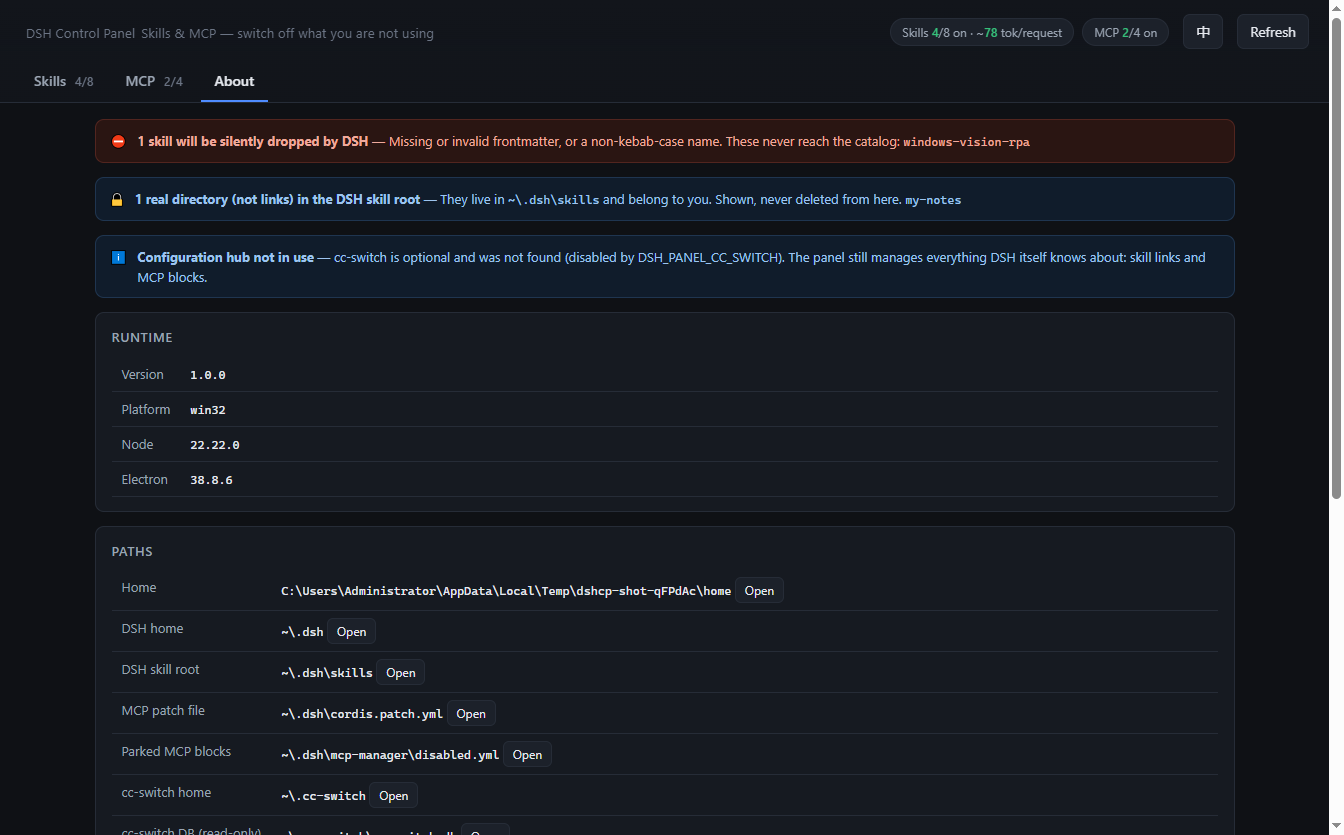
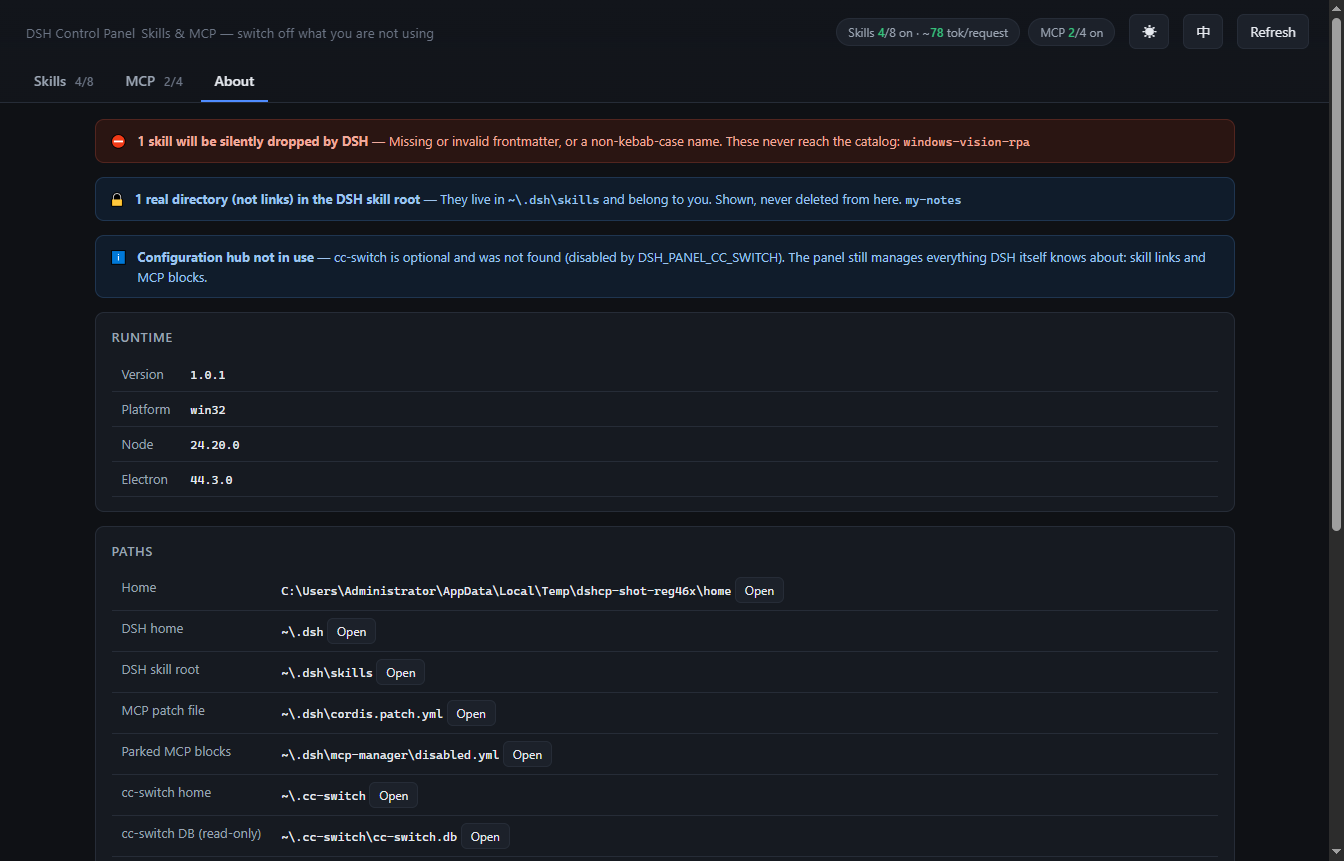
feat: light/dark themes, and stop the smoke test from lying
Themes. Every surface colour was a hardcoded dark value scattered through ~25
rules, so a light theme bolted on top would have left dark islands. They are now
tokens defined once per palette, which is what makes the toggle actually switch
the whole UI. The theme follows the OS until the user picks one, the choice
persists, and a tiny inline script sets it before first paint so a light-theme
user never sees a dark flash on launch.

Menu bar. Now hidden: it is developer chrome, every entry already has an
accelerator or a button in the page, and Alt still reveals it so DevTools and
zoom stay reachable. Verified by asserting win.isMenuBarVisible() from the smoke
run, since capturePage cannot see window chrome.

The more important fix is that the smoke test could report success while the app
was visibly broken, with a blank page and exit 0. Two independent causes:

  - Renderer errors were ignored. console-message and render-process-gone are
    now collected and any error-level entry fails the run and prints the error.
    This immediately caught a ReferenceError I had just introduced: the theme
    toggle was painted from a module-level call placed before const $, so the
    whole page script threw in its temporal dead zone. That is exactly the bug
    class the assertion is for, and it is fixed.
  - The single-instance lock. Smoke and screenshot runs now take their own
    --user-data-dir, because a run started while the app was already open became
[…]

diff --git a/public/index.html b/public/index.html
@@ -6,8 +6,35 @@
 <meta http-equiv="Content-Security-Policy"
       content="default-src 'none'; style-src 'unsafe-inline'; script-src 'unsafe-inline'; connect-src 'self'; img-src 'self' data:" />
 <title>DSH Control Panel</title>
+<script>
+  /*
+   * Runs before first paint, so a light-theme user never sees a dark flash on
+   * launch. Deliberately tiny and dependency-free; the real theme logic lives at
+   * the bottom of the file and simply re-applies the same decision.
+   */
+  (function () {
+    var t;
+    try {
+      var q = new URLSearchParams(location.search).get('theme');
+      t = (q === 'light' || q === 'dark') ? q : localStorage.getItem('dshcp.theme');
+      if (t !== 'light' && t !== 'dark') {
+        t = matchMedia('(prefers-color-scheme: light)').matches ? 'light' : 'dark';
+      }
+    } catch (e) {
+      t = 'dark';
+    }
+    document.documentElement.dataset.theme = t;
+  })();
+</script>
 <style>
-  :root {
+  /*
+   * Every surface colour is a token, and both palettes define the same tokens.
+   * That is deliberate: the original stylesheet had ~25 hardcoded dark values
+   * scattered through the rules, and a light theme bolted on top of those leaves
+   * dark islands. Overriding one block of variables cannot.
+   */
+  :root, :root[data-theme="dark"] {
+    color-scheme: dark;
     --bg: #0f1115;
     --panel: #161a21;
     --panel-2: #1c212a;
@@ -16,11 +43,58 @@
     --fg-dim: #9aa4b2;
     --fg-faint: #6b7484;
     --accent: #4f8cff;
+    --accent-hover: #3d7ae8;
     --on: #35c07a;
     --off: #55607a;
     --warn: #e0a33c;
     --err: #e5604d;
+    --knob: #ffffff;
+    --shadow: 0 8px 28px rgba(0, 0, 0, .5);
+    --header-top: #12151b;
+    --header-bottom: rgba(18, 21, 27, .93);
+    --btn-hover: #232936;
+    --btn-hover-line: #39414f;
+    --bnr-warn-bg: #241d0e; --bnr-warn-line: #4a3a1a; --bnr-warn-fg: #f0d49a;
+    --bnr-info-bg: #101c2b; --bnr-info-line: #1f3550; --bnr-info-fg: #9dc4f0;
+    --bnr-err-bg: #2a1512;  --bnr-err-line: #52251f;  --bnr-err-fg:  #f0a99c;
+    --row-on-bg: #141d19;    --row-on-line: #24503a;
+    --row-bad-line: #4a2620; --row-unmanaged-line: #3a3320;
+    --tag-bg: #202633; --tag-fg: #6b7484; --tag-line: #2b323f;
+    --tag-bad-bg: #2c1714; --tag-bad-fg: #eb8b7b; --tag-bad-line: #4a2620;
+    --tag-warn-bg: #2a2211; --tag-warn-fg: #dfb263; --tag-warn-line: #4a3a1a;
+    --tag-good-bg: #12271d; --tag-good-fg: #6fd39c; --tag-good-line: #24503a;
     --mono: ui-monospace, "Cascadia Code", "SF Mono", Consolas, monospace;
+  }
+  :root[data-theme="light"] {
+    color-scheme: light;
+    --bg: #f4f6f9;
+    --panel: #ffffff;
+    --panel-2: #eceff4;
+    --line: #d8dee7;
+    --fg: #12161d;
+    --fg-dim: #4b5563;
+    --fg-faint: #6b7684;
+    --accent: #2b6fdb;
+    --accent-hover: #1f5cc4;
+    --on: #12875a;
+    --off: #b3bcc9;
+    --warn: #8a5d0b;
+    --err: #b83c2c;
+    --knob: #ffffff;
+    --shadow: 0 8px 28px rgba(15, 23, 42, .16);
+    --header-top: #ffffff;
+    --header-bottom: rgba(255, 255, 255, .88);
+    --btn-hover: #e0e6ef;
+    --btn-hover-line: #c6cfdd;
+    --bnr-warn-bg: #fdf3dc; --bnr-warn-line: #ecd9a8; --bnr-warn-fg: #6b4a06;
+    --bnr-info-bg: #e7f0fd; --bnr-info-line: #c3d9f5; --bnr-info-fg: #17457f;
+    --bnr-err-bg: #fdeae7;  --bnr-err-line: #f3c6bf;  --bnr-err-fg:  #8f2c1e;
+    --row-on-bg: #eefaf2;    --row-on-line: #a8d8bd;
+    --row-bad-line: #f0c0b7; --row-unmanaged-line: #e6d3a8;
+    --tag-bg: #eef1f6; --tag-fg: #5a6575; --tag-line: #dbe1ea;
+    --tag-bad-bg: #fbe9e6; --tag-bad-fg: #a3352a; --tag-bad-line: #f0c6be;
+    --tag-warn-bg: #fbf1dc; --tag-warn-fg: #7a5406; --tag-warn-line: #ecd9a8;
+    --tag-good-bg: #e6f6ec; --tag-good-fg: #0e6b41; --tag-good-line: #b6dfc6;
   }
   * { box-sizing: border-box; }
   body {
@@ -30,7 +104,7 @@
   a { color: var(--accent); }
   header {
     position: sticky; top: 0; z-index: 10;
-    background: linear-gradient(180deg, #12151b 0%, #12151bee 100%);
+    background: linear-gradient(180deg, var(--header-top) 0%, var(--header-bottom) 100%);
     border-bottom: 1px solid var(--line);
     padding: 14px 20px 0;
     backdrop-filter: blur(8px);
@@ -50,10 +124,10 @@
     border: 1px solid var(--line); border-radius: 7px; padding: 6px 12px;
     cursor: pointer; transition: background .12s, border-color .12s;
   }
-  button:hover:not(:disabled) { background: #232936; border-color: #39414f; }
+  button:hover:not(:disabled) { background: var(--btn-hover); border-color: var(--btn-hover-line); }
   button:disabled { opacity: .4; cursor: not-allowed; }
   button.primary { background: var(--accent); border-color: var(--accent); color: #fff; }
-  button.primary:hover:not(:disabled) { background: #3d7ae8; }
+  button.primary:hover:not(:disabled) { background: var(--accent-hover); }
   button.mini { padding: 3px 9px; font-size: 12px; border-radius: 6px; }
   .tabs { display: flex; gap: 4px; margin-top: 12px; }
   .tab {
@@ -67,11 +141,11 @@
 
   .banner {
     display: flex; gap: 10px; align-items: flex-start;
-    border: 1px solid #4a3a1a; background: #241d0e; color: #f0d49a;
+    border: 1px solid var(--bnr-warn-line); background: var(--bnr-warn-bg); color: var(--bnr-warn-fg);
     border-radius: 9px; padding: 11px 14px; margin-bottom: 14px; font-size: 13px;
   }
-  .banner.info { border-color: #1f3550; background: #101c2b; color: #9dc4f0; }
-  .banner.err { border-color: #52251f; background: #2a1512; color: #f0a99c; }
+  .banner.info { border-color: var(--bnr-info-line); background: var(--bnr-info-bg); color: var(--bnr-info-fg); }
+  .banner.err { border-color: var(--bnr-err-line); background: var(--bnr-err-bg); color: var(--bnr-err-fg); }
   .banner code { font-family: var(--mono); font-size: 12px; }
 
   .toolbar { display: flex; gap: 8px; align-items: center; margin-bottom: 12px; flex-wrap: wrap; }
@@ -88,9 +162,9 @@
     background: var(--panel); border: 1px solid var(--line);
     border-radius: 9px; padding: 11px 13px;
   }
-  .row.is-on { border-color: #24503a; background: #141d19; }
-  .row.is-bad { border-color: #4a2620; }
-  .row.is-unmanaged { border-color: #3a3320; }
+  .row.is-on { border-color: var(--row-on-line); background: var(--row-on-bg); }
+  .row.is-bad { border-color: var(--row-bad-line); }
+  .row.is-unmanaged { border-color: var(--row-unmanaged-line); }
   .sub { color: var(--fg-dim); font-size: 12.5px; margin-top: 2px; }
 
   /* switch */
@@ -102,7 +176,8 @@
   }
   .sw label::after {
     content: ""; position: absolute; top: 3px; left: 3px;
-    width: 16px; height: 16px; border-radius: 50%; background: #fff; transition: transform .15s;
+    width: 16px; height: 16px; border-radius: 50%; background: var(--knob); transition: transform .15s;
+    box-shadow: 0 1px 2px rgba(0, 0, 0, .35);
   }
   .sw input:checked + label { background: var(--on); }
   .sw input:checked + label::after { transform: translateX(18px); }
@@ -116,12 +191,12 @@
   .meta { display: flex; gap: 6px; flex-wrap: wrap; margin-top: 7px; align-items: center; }
   .tag {
     font-size: 11px; padding: 1px 7px; border-radius: 5px;
-    background: #202633; color: var(--fg-faint); border: 1px solid #2b323f;
+    background: var(--tag-bg); color: var(--tag-fg); border: 1px solid var(--tag-line);
     font-family: var(--mono);
   }
-  .tag.bad { background: #2c1714; color: #eb8b7b; border-color: #4a2620; }
-  .tag.warn { background: #2a2211; color: #dfb263; border-color: #4a3a1a; }
-  .tag.good { background: #12271d; color: #6fd39c; border-color: #24503a; }
+  .tag.bad { background: var(--tag-bad-bg); color: var(--tag-bad-fg); border-color: var(--tag-bad-line); }
+  .tag.warn { background: var(--tag-warn-bg); color: var(--tag-warn-fg); border-color: var(--tag-warn-line); }
+  .tag.good { background: var(--tag-good-bg); color: var(--tag-good-fg); border-color: var(--tag-good-line); }
   .right { text-align: right; color: var(--fg-faint); font-size: 12px; white-space: nowrap; padding-top: 2px; }
   .right .tk { font-family: var(--mono); color: var(--fg-dim); }
   .empty { color: var(--fg-faint); padding: 30px; text-align: center; }
@@ -129,9 +204,9 @@
   footer code { font-family: var(--mono); color: var(--fg-dim); }
   .toast {
     position: fixed; right: 18px; bottom: 18px; z-index: 50;
-    background: #2a1512; border: 1px solid #52251f; color: #f0a99c;
+    background: var(--bnr-err-bg); border: 1px solid var(--bnr-err-line); color: var(--bnr-err-fg);
     padding: 10px 14px; border-radius: 8px; max-width: 460px; font-size: 13px;
-    box-shadow: 0 8px 28px #0008;
+    box-shadow: var(--shadow);
   }
   .spin { display: inline-block; animation: r 1s linear infinite; }
   @keyframes r { to { transform: rotate(360deg); } }
@@ -154,6 +229,7 @@
   <div class="titlebar">
     <h1><span id="i18nTitle">DSH Control Panel</span><span id="i18nSubtitle"></span></h1>
     <div class="chips" id="chips"></div>
+    <button id="theme" type="button"></button>
     <button id="lang" title="Language / 语言">中</button>
     <button id="refresh"></button>
   </div>
@@ -222,6 +298,7 @@ const I18N = {
     title: 'DSH Control Panel',
     subtitle: 'Skills & MCP — switch off what you are not using',
     refresh: 'Refresh', refreshBusy: 'Loading…',
+    themeToLight: 'Switch to light theme', themeToDark: 'Switch to dark theme',
     tabSkills: 'Skills', tabMcp: 'MCP', tabAbout: 'About',
     skillsChip: (a, b, t) => `Skills <b>${a}</b>/${b} on · ~<b>${t}</b> tok/request`,
     mcpChip: (a, b) => `MCP <b>${a}</b>/${b} on`,
@@ -299,6 +376,7 @@ const I18N = {
     title: 'DSH 控制台',
     subtitle: 'Skills 与 MCP · 按需开关',
     refresh: '刷新', refreshBusy: '加载中…',
+    themeToLight: '切换到浅色主题', themeToDark: '切换到深色主题',
     tabSkills: 'Skills', tabMcp: 'MCP', tabAbout: '关于',
     skillsChip: (a, b, t) => `Skills <b>${a}</b>/${b} 开 · ~<b>${t}</b> tok/请求`,
     mcpChip: (a, b) => `MCP <b>${a}</b>/${b} 开`,
@@ -375,6 +453,7 @@ const I18N = {
 
 const REPO = 'https://github.com/YiShan-X/dsh-control-panel';
 const SUPPORTED = ['en', 'zh-CN'];
+const THEMES = ['dark', 'light'];
 
 /** Explicit `?lang=` wins, then the stored choice, then the browser locale. */
 function pickLang() {
@@ -392,6 +471,49 @@ const t = (k, ...args) => {
   const v = (I18N[lang] || I18N.en)[k] ?? I18N.en[k] ?? k;
   return typeof v === 'function' ? v(...args) : v;
 };
+
+// ---------------------------------------------------------------------------
+// Theme
+// ---------------------------------------------------------------------------
+
+/** True once the user has picked a theme; until then the OS decides. */
+const themeStored = () => {
+  try { return localStorage.getItem('dshcp.theme'); } catch { return null; }
+};
+
+/**
+ * Explicit `?theme=` wins, then the stored choice, then the OS preference.
+ * The query parameter exists so screenshots and tests are deterministic.
+ */
+function pickTheme() {
+  try {
+    const forced = new URLSearchParams(location.search).get('theme');
+    if (THEMES.includes(forced)) return forced;
+  } catch { /* no location.search in some embeddings */ }
+  const stored = themeStored();
+  if (THEMES.includes(stored)) return stored;
+  return window.matchMedia?.('(prefers-color-scheme: light)').matches ? 'light' : 'dark';
+}
+
+let theme = pickTheme();
+
+function applyTheme() {
+  document.documentElement.dataset.theme = theme;
+  const btn = $('#theme');
+  if (!btn) return;
+  // The glyph shows the theme you would switch *to*, which is the convention
+  // people expect from this kind of toggle.
+  btn.textContent = theme === 'dark' ? '☀' : '☾';
+  btn.title = t(theme === 'dark' ? 'themeToLight' : 'themeToDark');
+  btn.setAttribute('aria-label', btn.title);
+}
+
+// Follow the OS while the user has not overridden it.
+window.matchMedia?.('(prefers-color-scheme: light)').addEventListener?.('change', () => {
+  if (themeStored()) return;
+  theme = pickTheme();
+  applyTheme();
+});
 
 // ---------------------------------------------------------------------------
 // State + helpers
@@ -483,6 +605,7 @@ function render() {
   $('#skOff').textContent = t('disableFiltered');
   $('#skOn').textContent = t('enableFiltered');
   $('#refresh').textContent = t('refresh');
+  applyTheme();
 
   const s = state.skillSummary || {};
   const mcpOn = state.mcp.filter((m) => m.enabled).length;
@@ -696,6 +819,11 @@ document.querySelectorAll('.tab').forEach((b) => b.addEventListener('click', () 
 }));
 
 $('#refresh').addEventListener('click', () => load(true));
+$('#theme').addEventListener('click', () => {
+  theme = theme === 'dark' ? 'light' : 'dark';
+  try { localStorage.setItem('dshcp.theme', theme); } catch { /* private mode */ }
+  applyTheme();
+});
 $('#lang').addEventListener('click', () => {
   lang = lang === 'zh-CN' ? 'en' : 'zh-CN';
   localStorage.setItem('dshcp.lang', lang);
@@ -751,6 +879,12 @@ async function bulk(enabled) {
 }
 $('#skOff').addEventListener('click', () => bulk(false));
 $('#skOn').addEventListener('click', () => bulk(true));
+
+// Paint the toggle glyph immediately rather than waiting for the first fetch to
+// resolve. This must come after `$` is initialised: `applyTheme` reads the
+// button, and calling it from the theme block above throws a TDZ ReferenceError
+// that blanks the entire page.
+applyTheme();
 
 load(false);
 </script>

diff --git a/CHANGELOG.md b/CHANGELOG.md
@@ -5,6 +5,42 @@ All notable changes to this project are documented here.
 The format follows [Keep a Changelog](https://keepachangelog.com/en/1.1.0/),
 and this project adheres to [Semantic Versioning](https://semver.org/spec/v2.0.0.html).
 
+## [1.1.0] - 2026-09-14
+
+### Added
+
+- **Light and dark themes.** Every surface colour is now a token defined once per
+  palette, so the whole UI switches rather than leaving dark islands behind. The
+  theme follows the OS until you pick one with the new header toggle, and the
+  choice persists. The theme is applied by a tiny inline script before first
+  paint, so a light-theme user never sees a dark flash on launch.
+- `?theme=` alongside `?lang=` for deterministic screenshots, plus a light-theme
+  capture in the documentation.
+
+### Changed
+
+- **The desktop window no longer shows the native menu bar.** It is developer
+  chrome; every entry already has a keyboard accelerator or a button in the page,
+  and `Alt` still reveals it, so DevTools and zoom stay reachable.
+
+### Fixed
+
+- **The smoke test could pass while the app was visibly broken.** Two causes,
+  both fixed:
+  - A renderer error now fails the run. Previously a page script could throw,
+    render nothing, and still exit 0 with a blank screenshot -- CI green, product
+    broken. `console-message` and `render-process-gone` are collected and any
+    error-level entry fails the run and prints what went wrong.
+  - Smoke and screenshot runs take their own `--user-data-dir`. The
+    single-instance lock is keyed on it, so a run started while the app was
+    already open silently became a "focus the other window" no-op, exiting 0
+    without producing anything. That case now fails loudly, with the fix in the
+    message.
+- A page-script `ReferenceError` that blanked the entire UI: the theme toggle was
+  painted by a module-level call made before `const $` was initialised.
+- `/favicon.ico` answers `204` instead of `404`, so the browser's automatic probe
+  no longer logs a console error.
+
 ## [1.0.1] - 2026-09-14
 
 Documentation and positioning only -- no behaviour change in the app.

diff --git a/README.md b/README.md
@@ -179,6 +179,14 @@ listed in a red banner with the exact reason.
 
 ![About tab](docs/screenshot-about.png)
 
+**Interface.** Light and dark themes, following your OS setting until you pick
+one from the toggle in the header. The UI is bilingual (English and Simplified
+Chinese) as well, and the desktop window hides the native menu bar — it is
+developer chrome, and every entry has a keyboard accelerator or a button in the
+page. Press <kbd>Alt</kbd> to reveal it if you need DevTools.
+
+![Light theme](docs/screenshot-light.png)
+
 ---
 
 ## Safety guarantees

diff --git a/README.zh-CN.md b/README.zh-CN.md
@@ -152,6 +152,12 @@ frontmatter、或者 `name` 不是 kebab-case 的 skill，会被 DSH **静默丢
 
 ![关于标签页](docs/zh/screenshot-about.png)
 
+**界面。** 深色 / 浅色主题，默认跟随系统，点标题栏的开关可手动指定。界面同样是
+中英双语。桌面窗口**隐藏了原生菜单栏**——那是开发者装饰，里面每一项在页面里都有
+对应的按钮或快捷键；需要 DevTools 时按 <kbd>Alt</kbd> 唤出。
+
+![浅色主题](docs/screenshot-light.png)
+
 ---
 
 ## 安全保证
